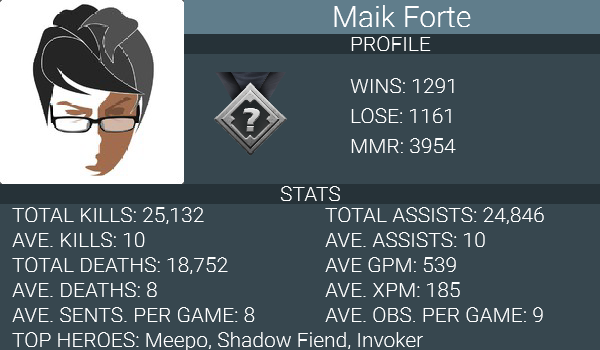
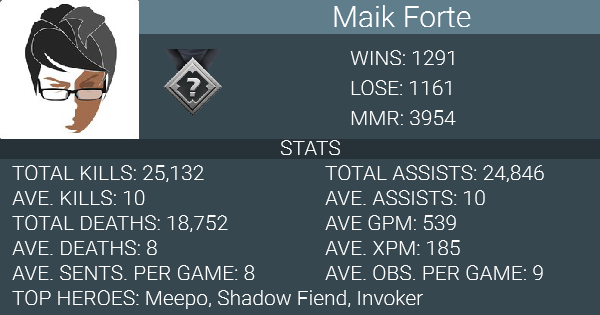
Working copy

Changed region(s): [[0.0, 0.0, 1.0, 1.0]]

diff --git a/src/server/controller/dota-stat.controller.js b/src/server/controller/dota-stat.controller.js
@@ -168,7 +168,8 @@ module.exports.saveStats = function (req, res) {
 
 module.exports.generateImage = function (req, res) {
     var data = null;
-    var filename = randomString.generate(90) + ".png";
+    var filename = randomString.generate(90) + ".png"
+    //    var filename = "test.png";
     fetchStats(req.body.account_id).then(function (successCallback) {
         data = successCallback;
         data.played_heroes = heroNamer(data.played_heroes, data.hero_list);
@@ -206,34 +207,33 @@ module.exports.generateImage = function (req, res) {
         }
         var robotoFont = PImage.registerFont('assets/fonts/roboto-v18-latin-300.ttf', 'Roboto');
         robotoFont.load(function () {
-            var statsImage = PImage.make(600, 350);
+            var statsImage = PImage.make(600, 315);
             var context = statsImage.getContext('2d');
             context.fillStyle = '#37474F';
             context.fillRect(0, 0, 600, 350);
             context.fillStyle = "#263238";
-            context.fillRect(0, 0, 184, 184);
+            context.fillRect(0, 0, 139, 139);
             context.fillStyle = "#607D8B";
-            context.fillRect(184, 0, 416, 34);
+            context.fillRect(139, 0, 461, 34);
+            //            context.fillStyle = "#263238";
+            //            context.fillRect(139, 34, 461, 20);
             context.fillStyle = "#263238";
-            context.fillRect(184, 34, 416, 20);
-            context.fillStyle = "#263238";
-            context.fillRect(0, 184, 600, 20);
+            context.fillRect(0, 139, 600, 20);
             context.fillStyle = '#ffffff';
             context.font = "21pt 'Roboto'";
-            context.fillText("PROFILE", 350, 51);
-            context.fillText("STATS", 280, 201);
+            context.fillText("STATS", 280, 156);
             //            context.fillText(data.played_heroes[0].localized_name, 220, 90);
             //            context.fillText(data.played_heroes[1].localized_name, 220, 120);
             //            context.fillText(data.played_heroes[2].localized_name, 220, 150);
             //            context.fillText(" - " + data.played_heroes[0].win + " WINS", 400, 90);
             //            context.fillText(" - " + data.played_heroes[1].win + " WINS", 400, 120);
             //            context.fillText(" - " + data.played_heroes[2].win + " WINS", 400, 150);
-            context.fillText("WINS: " + data.wl_ratio.win, 350, 93);
-            context.fillText("LOSE: " + data.wl_ratio.lose, 350, 123);
-            context.fillText("MMR: " + data.player_info.mmr_estimate.estimate, 350, 153);
+            context.fillText("WINS: " + data.wl_ratio.win, 350, 65);
+            context.fillText("LOSE: " + data.wl_ratio.lose, 350, 95);
+            context.fillText("MMR: " + data.player_info.mmr_estimate.estimate, 350, 125);
             var leftPane = 12;
             var rightPane = 325;
-            var row1 = 222;
+            var row1 = 180;
             var row2 = row1 + 25;
             var row3 = row2 + 25;
             var row4 = row3 + 25;
@@ -256,15 +256,16 @@ module.exports.generateImage = function (req, res) {
             PImage.decodeJPEGFromStream(fs.createReadStream("assets/images/" + data.player_info.localImage)).then(function (img) {
                 context.drawImage(img,
                     0, 0, img.width, img.height,
-                    0, 0, img.width, img.height
+                    0, 0, 139, 139
                 );
                 PImage.decodePNGFromStream(fs.createReadStream("assets/images/" + rank)).then(function (img) {
                     context.drawImage(img,
                         0, 0, img.width, img.height,
-                        184, 54, 130, 130
+                        139, 34, 105, 105
                     );
                     PImage.encodePNGToStream(statsImage, fs.createWriteStream('generated-stats/' + filename)).then(() => {
                         res.json(host + "/generated-stats/" + filename);
+                        console.log("ENDED");
                     }).catch((e) => {
                         console.log(e, "there was an error writing");
                     });

diff --git a/stat-generator.js b/stat-generator.js
@@ -38,11 +38,12 @@ app.listen(port, function () {
 //            //            "account_id": 109192448
 //            "account_id": 110021241
 //            //            "account_id": 128219138
+//        },
+//        function (error, response, body) {
+//            if (error) {
+//                console.log(error);
+//            }
+//            console.log(body);
 //        }
-//    }, function (error, response, body) {
-//        if (error) {
-//            console.log(error);
-//        }
-//        console.log(body);
 //    });
 });

diff --git a/src/app/stat-generator/stat-generator.controller.js b/src/app/stat-generator/stat-generator.controller.js
@@ -105,7 +105,7 @@ angular.module("Dota2StatGenerator")
                             'og:description': "Generate, Share and Brag your all-time DotA 2 Statistics and show them who's the boss",
                             'og:image': $scope.generatedStats,
                             "og:image:width": "600",
-                            "og:image:height": "350"
+                            "og:image:height": "315"
                         }
                     })
                 });
